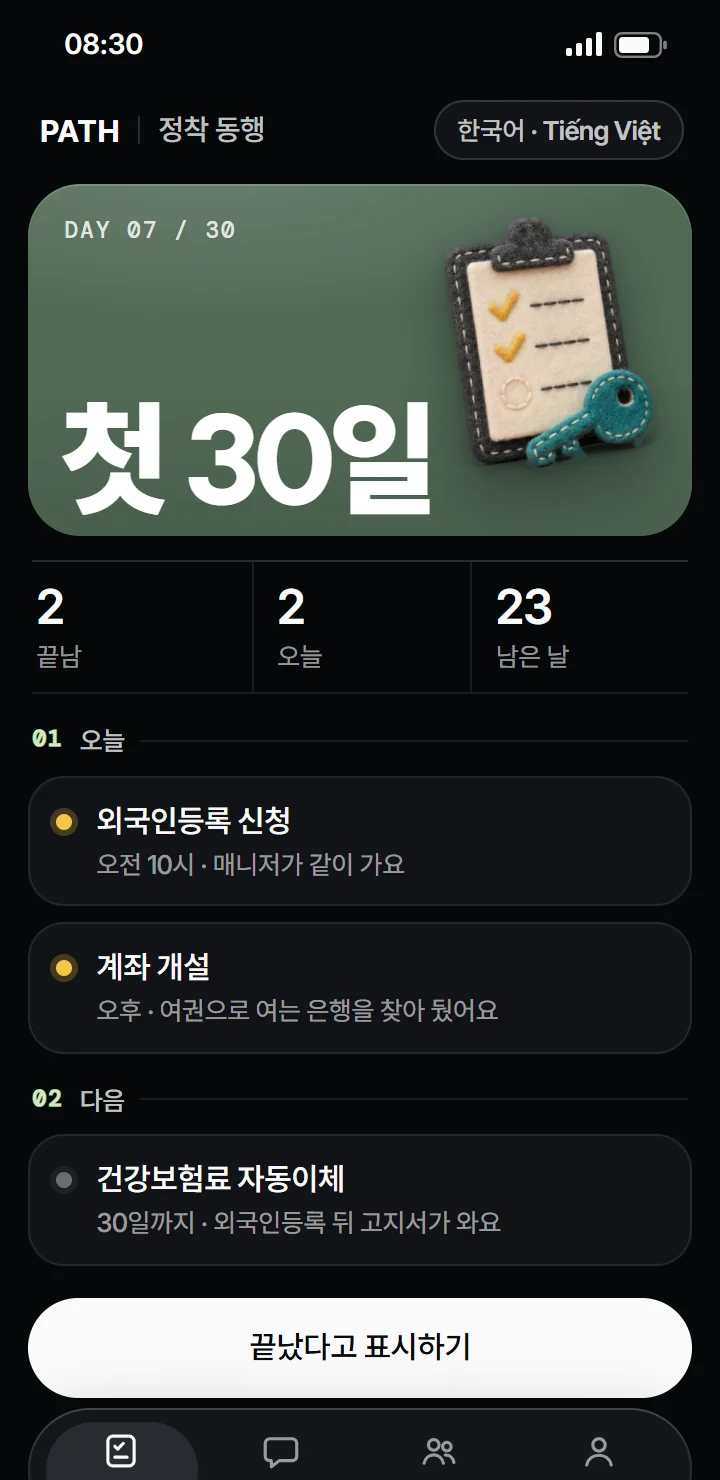
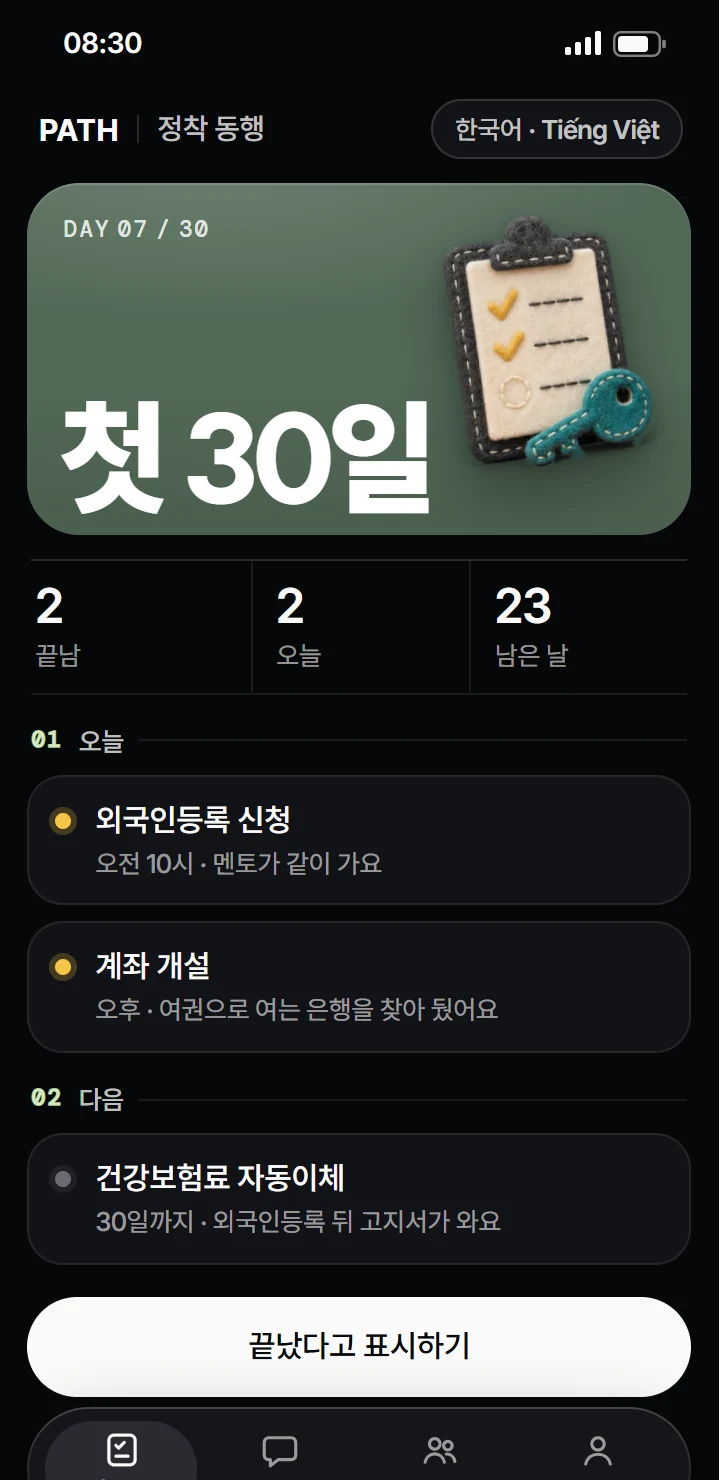
모임 쪽(한 · 영) 정착 동행 앱 구역의 「매니저」를 「멘토」로: 상담 설명 · 멘토 화면 · 대체 글, 앱 시안 그림 둘(할 일 · 상담)을 같은 원고에서 멘토 글로 다시 찍음(검수 community-mentor-app-20261128, 카본 P3 1 재현 안 됨)

diff --git a/community/index.html b/community/index.html
@@ -58,11 +58,11 @@
         <h2>할 일, 상담, 모임이<br>앱 하나에</h2>
         <ul class="feats">
           <li><b>할 일</b><span>첫 30일 동안 할 일을 날짜순으로 보여 주고, 끝낸 일을 표시합니다.</span></li>
-          <li><b>상담</b><span>AI가 먼저 답하고, 확인이 필요한 일은 매니저가 이어받습니다.</span></li>
-          <li><b>매니저 화면</b><span>답이 없는 사람, 기한이 다가온 사람처럼 먼저 챙길 사람부터 보입니다.</span></li>
+          <li><b>상담</b><span>AI가 먼저 답하고, 확인이 필요한 일은 멘토가 이어받습니다.</span></li>
+          <li><b>멘토 화면</b><span>답이 없는 사람, 기한이 다가온 사람처럼 먼저 챙길 사람부터 보입니다.</span></li>
         </ul>
       </div>
-      <figure class="shot phone"><img src="/assets/v11/d/settle-talk.webp" alt="정착 동행 앱의 상담 화면 시안. AI가 먼저 답하고 매니저가 이어받는다." loading="lazy"><figcaption>상담 · 준비 중인 화면입니다</figcaption></figure>
+      <figure class="shot phone"><img src="/assets/v11/d/settle-talk.webp" alt="정착 동행 앱의 상담 화면 시안. AI가 먼저 답하고 멘토가 이어받는다." loading="lazy"><figcaption>상담 · 준비 중인 화면입니다</figcaption></figure>
     </div>
   </section>
 

diff --git a/en/community/index.html b/en/community/index.html
@@ -58,11 +58,11 @@
         <h2>Tasks, advice, community<br>in one app</h2>
         <ul class="feats">
           <li><b>Tasks</b><span>It shows what to do in your first 30 days in date order, and marks what is done.</span></li>
-          <li><b>Advice</b><span>AI answers first, and a manager takes over anything that needs checking.</span></li>
-          <li><b>Manager screen</b><span>People to look after first appear first, such as those who have not replied or whose deadline is near.</span></li>
+          <li><b>Advice</b><span>AI answers first, and a mentor takes over anything that needs checking.</span></li>
+          <li><b>Mentor screen</b><span>People to look after first appear first, such as those who have not replied or whose deadline is near.</span></li>
         </ul>
       </div>
-      <figure class="shot phone"><img src="/assets/v11/d/settle-talk.webp" alt="Draft of the advice screen in the Settle Together app. AI answers first and a manager takes over." loading="lazy"><figcaption>Advice · This screen is in preparation</figcaption></figure>
+      <figure class="shot phone"><img src="/assets/v11/d/settle-talk.webp" alt="Draft of the advice screen in the Settle Together app. AI answers first and a mentor takes over." loading="lazy"><figcaption>Advice · This screen is in preparation</figcaption></figure>
     </div>
   </section>
 
